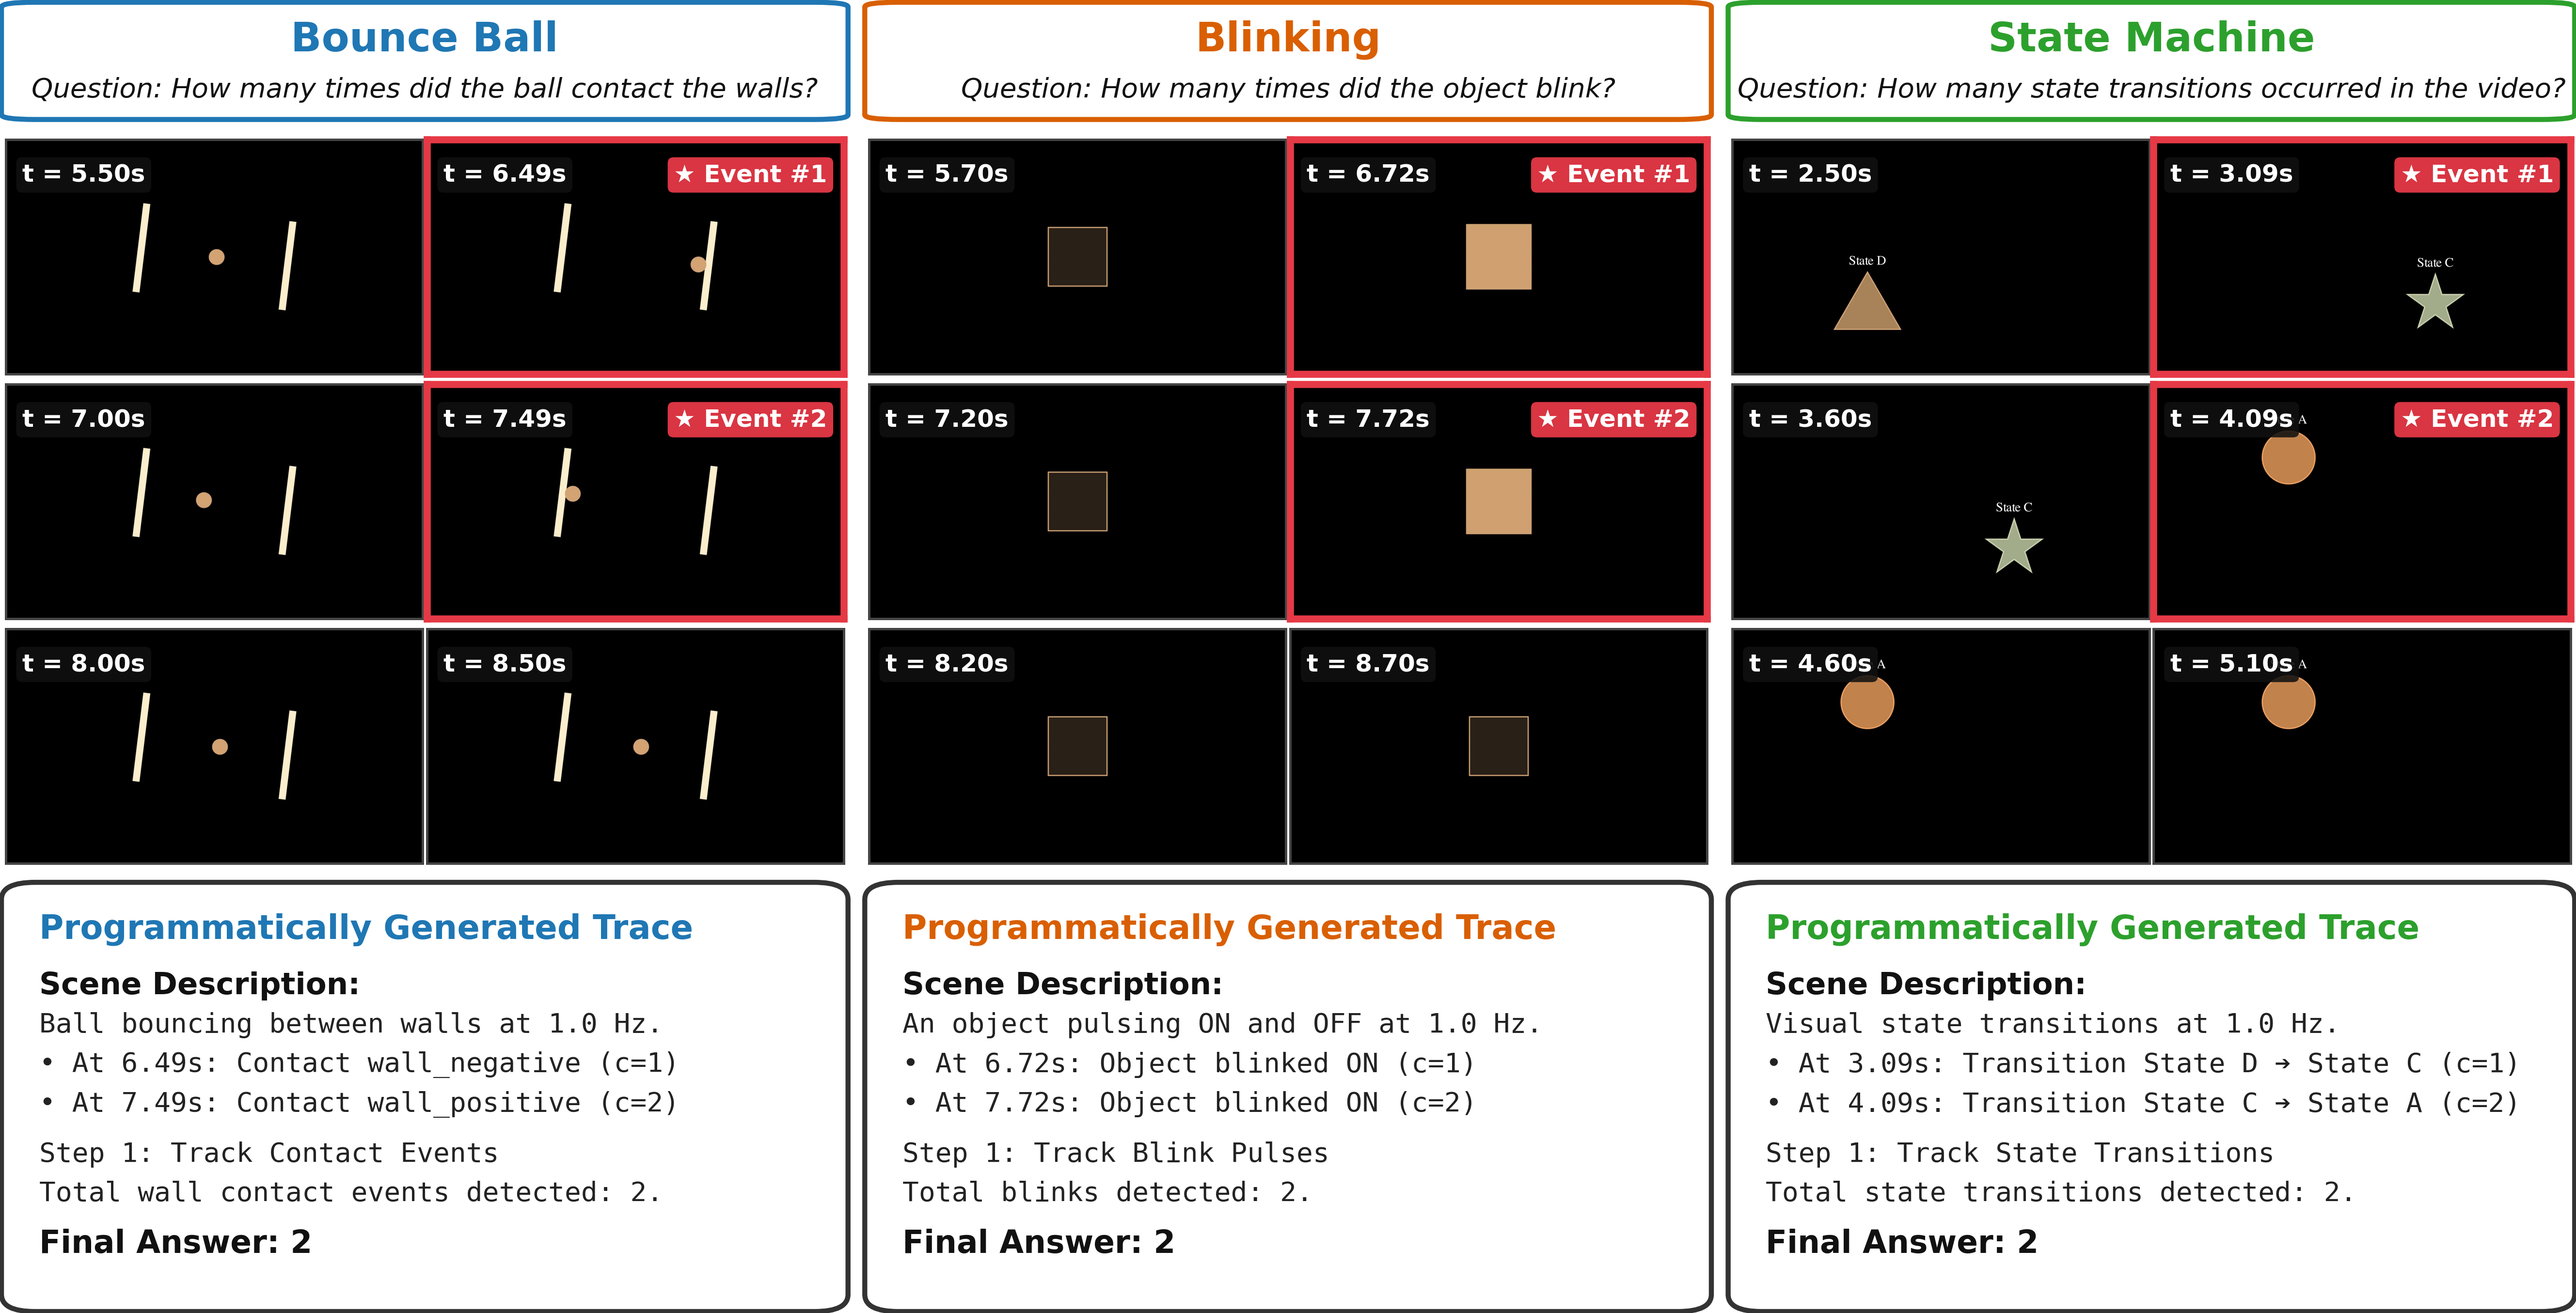
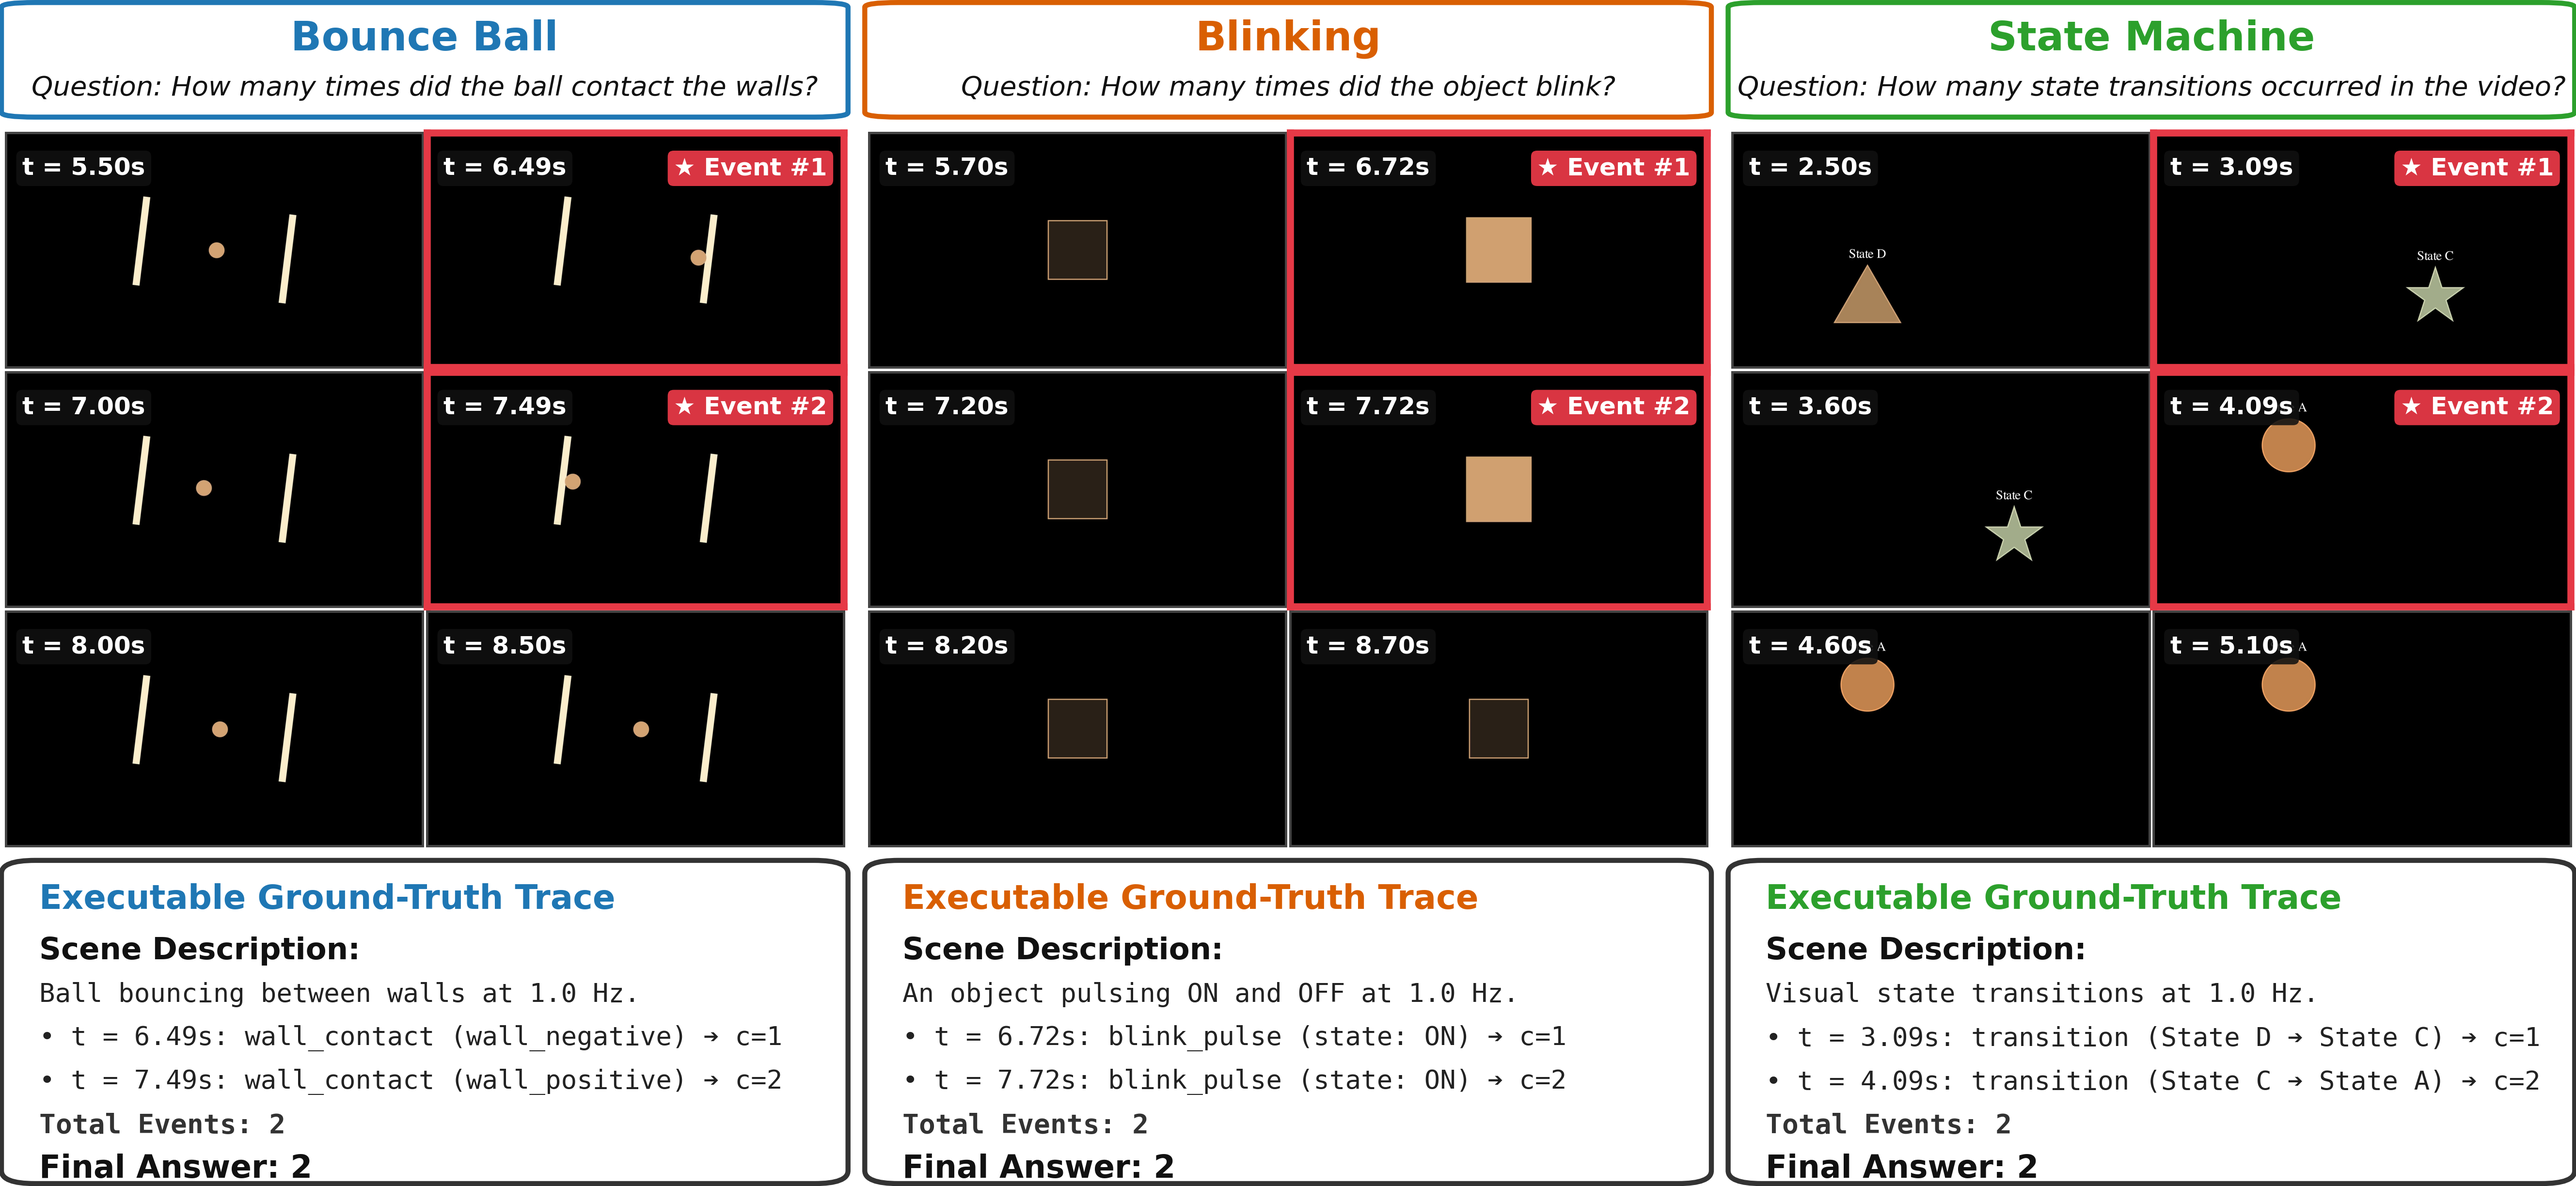
Update trace header to Executable Ground-Truth Trace, simplify trace lines, and trim box height

diff --git a/scripts/make_dataset_overview_figure.py b/scripts/make_dataset_overview_figure.py
@@ -45,12 +45,9 @@ def build_dataset_overview_figure(output_path: Path):
             "cot_lines": [
                 "Scene Description:",
                 "Ball bouncing between walls at 1.0 Hz.",
-                "• At 6.49s: Contact wall_negative (c=1)",
-                "• At 7.49s: Contact wall_positive (c=2)",
-                "",
-                "Step 1: Track Contact Events",
-                "Total wall contact events detected: 2.",
-                "",
+                "• t = 6.49s: wall_contact (wall_negative) ➔ c=1",
+                "• t = 7.49s: wall_contact (wall_positive) ➔ c=2",
+                "Total Events: 2",
                 "Final Answer: 2"
             ]
         },
@@ -64,12 +61,9 @@ def build_dataset_overview_figure(output_path: Path):
             "cot_lines": [
                 "Scene Description:",
                 "An object pulsing ON and OFF at 1.0 Hz.",
-                "• At 6.72s: Object blinked ON (c=1)",
-                "• At 7.72s: Object blinked ON (c=2)",
-                "",
-                "Step 1: Track Blink Pulses",
-                "Total blinks detected: 2.",
-                "",
+                "• t = 6.72s: blink_pulse (state: ON) ➔ c=1",
+                "• t = 7.72s: blink_pulse (state: ON) ➔ c=2",
+                "Total Events: 2",
                 "Final Answer: 2"
             ]
         },
@@ -83,12 +77,9 @@ def build_dataset_overview_figure(output_path: Path):
             "cot_lines": [
                 "Scene Description:",
                 "Visual state transitions at 1.0 Hz.",
-                "• At 3.09s: Transition State D ➔ State C (c=1)",
-                "• At 4.09s: Transition State C ➔ State A (c=2)",
-                "",
-                "Step 1: Track State Transitions",
-                "Total state transitions detected: 2.",
-                "",
+                "• t = 3.09s: transition (State D ➔ State C) ➔ c=1",
+                "• t = 4.09s: transition (State C ➔ State A) ➔ c=2",
+                "Total Events: 2",
                 "Final Answer: 2"
             ]
         }
@@ -98,13 +89,13 @@ def build_dataset_overview_figure(output_path: Path):
     plt.rcParams["figure.facecolor"] = "white"
     plt.rcParams["axes.facecolor"] = "white"
 
-    # Tuned figure height (9.2) and trace panel ratio (3.05) to eliminate empty bottom space
-    fig = plt.figure(figsize=(18, 9.2), dpi=300, facecolor="white")
+    # Compact figure size (18, 8.3) with proportional trace panel height (2.35)
+    fig = plt.figure(figsize=(18, 8.3), dpi=300, facecolor="white")
     col_gs = gridspec.GridSpec(1, 3, figure=fig, wspace=0.03, left=0.01, right=0.99, top=0.99, bottom=0.01)
 
     for c_idx, tinfo in enumerate(tasks_info):
         col_sub = gridspec.GridSpecFromSubplotSpec(3, 1, subplot_spec=col_gs[c_idx],
-                                                   height_ratios=[0.85, 5.2, 3.05], hspace=0.035)
+                                                   height_ratios=[0.85, 5.2, 2.35], hspace=0.035)
 
         # --- 1. Header Box ---
         ax_header = fig.add_subplot(col_sub[0])
@@ -159,7 +150,7 @@ def build_dataset_overview_figure(output_path: Path):
                           fontsize=12.0, fontweight="bold", color="white", ha="right",
                           bbox=dict(boxstyle="round,pad=0.25", facecolor="#e63946", edgecolor="none", alpha=0.95))
 
-        # --- 3. Trace Box (Trimmed height to fit content perfectly) ---
+        # --- 3. Trace Box: Executable Ground-Truth Trace ---
         ax_trace = fig.add_subplot(col_sub[2])
         ax_trace.axis("off")
 
@@ -169,26 +160,25 @@ def build_dataset_overview_figure(output_path: Path):
                                      clip_on=False)
         ax_trace.add_patch(trace_patch)
 
-        ax_trace.text(0.04, 0.89, "Programmatically Generated Trace", transform=ax_trace.transAxes,
+        ax_trace.text(0.04, 0.88, "Executable Ground-Truth Trace", transform=ax_trace.transAxes,
                       fontsize=16.5, fontweight="bold", color=tinfo["color"], va="center")
 
-        y_pos = 0.76
+        y_pos = 0.72
         for line in tinfo["cot_lines"]:
-            if not line:
-                y_pos -= 0.025
-                continue
-
             if line.endswith(":"):
                 ax_trace.text(0.04, y_pos, line, transform=ax_trace.transAxes,
                               fontsize=15.0, fontweight="bold", color="#111111", va="center")
             elif line.startswith("Final Answer:"):
                 ax_trace.text(0.04, y_pos, line, transform=ax_trace.transAxes,
                               fontsize=15.5, fontweight="bold", color="#111111", va="center")
+            elif line.startswith("Total Events:"):
+                ax_trace.text(0.04, y_pos, line, transform=ax_trace.transAxes,
+                              fontsize=13.5, fontweight="bold", color="#333333", fontfamily="monospace", va="center")
             else:
                 ax_trace.text(0.04, y_pos, line, transform=ax_trace.transAxes,
-                              fontsize=13.5, color="#222222", fontfamily="monospace", va="center")
+                              fontsize=13.0, color="#222222", fontfamily="monospace", va="center")
 
-            y_pos -= 0.092
+            y_pos -= 0.135
 
     output_path.parent.mkdir(parents=True, exist_ok=True)
     plt.savefig(output_path, dpi=300, bbox_inches="tight", facecolor="white", pad_inches=0.01)
